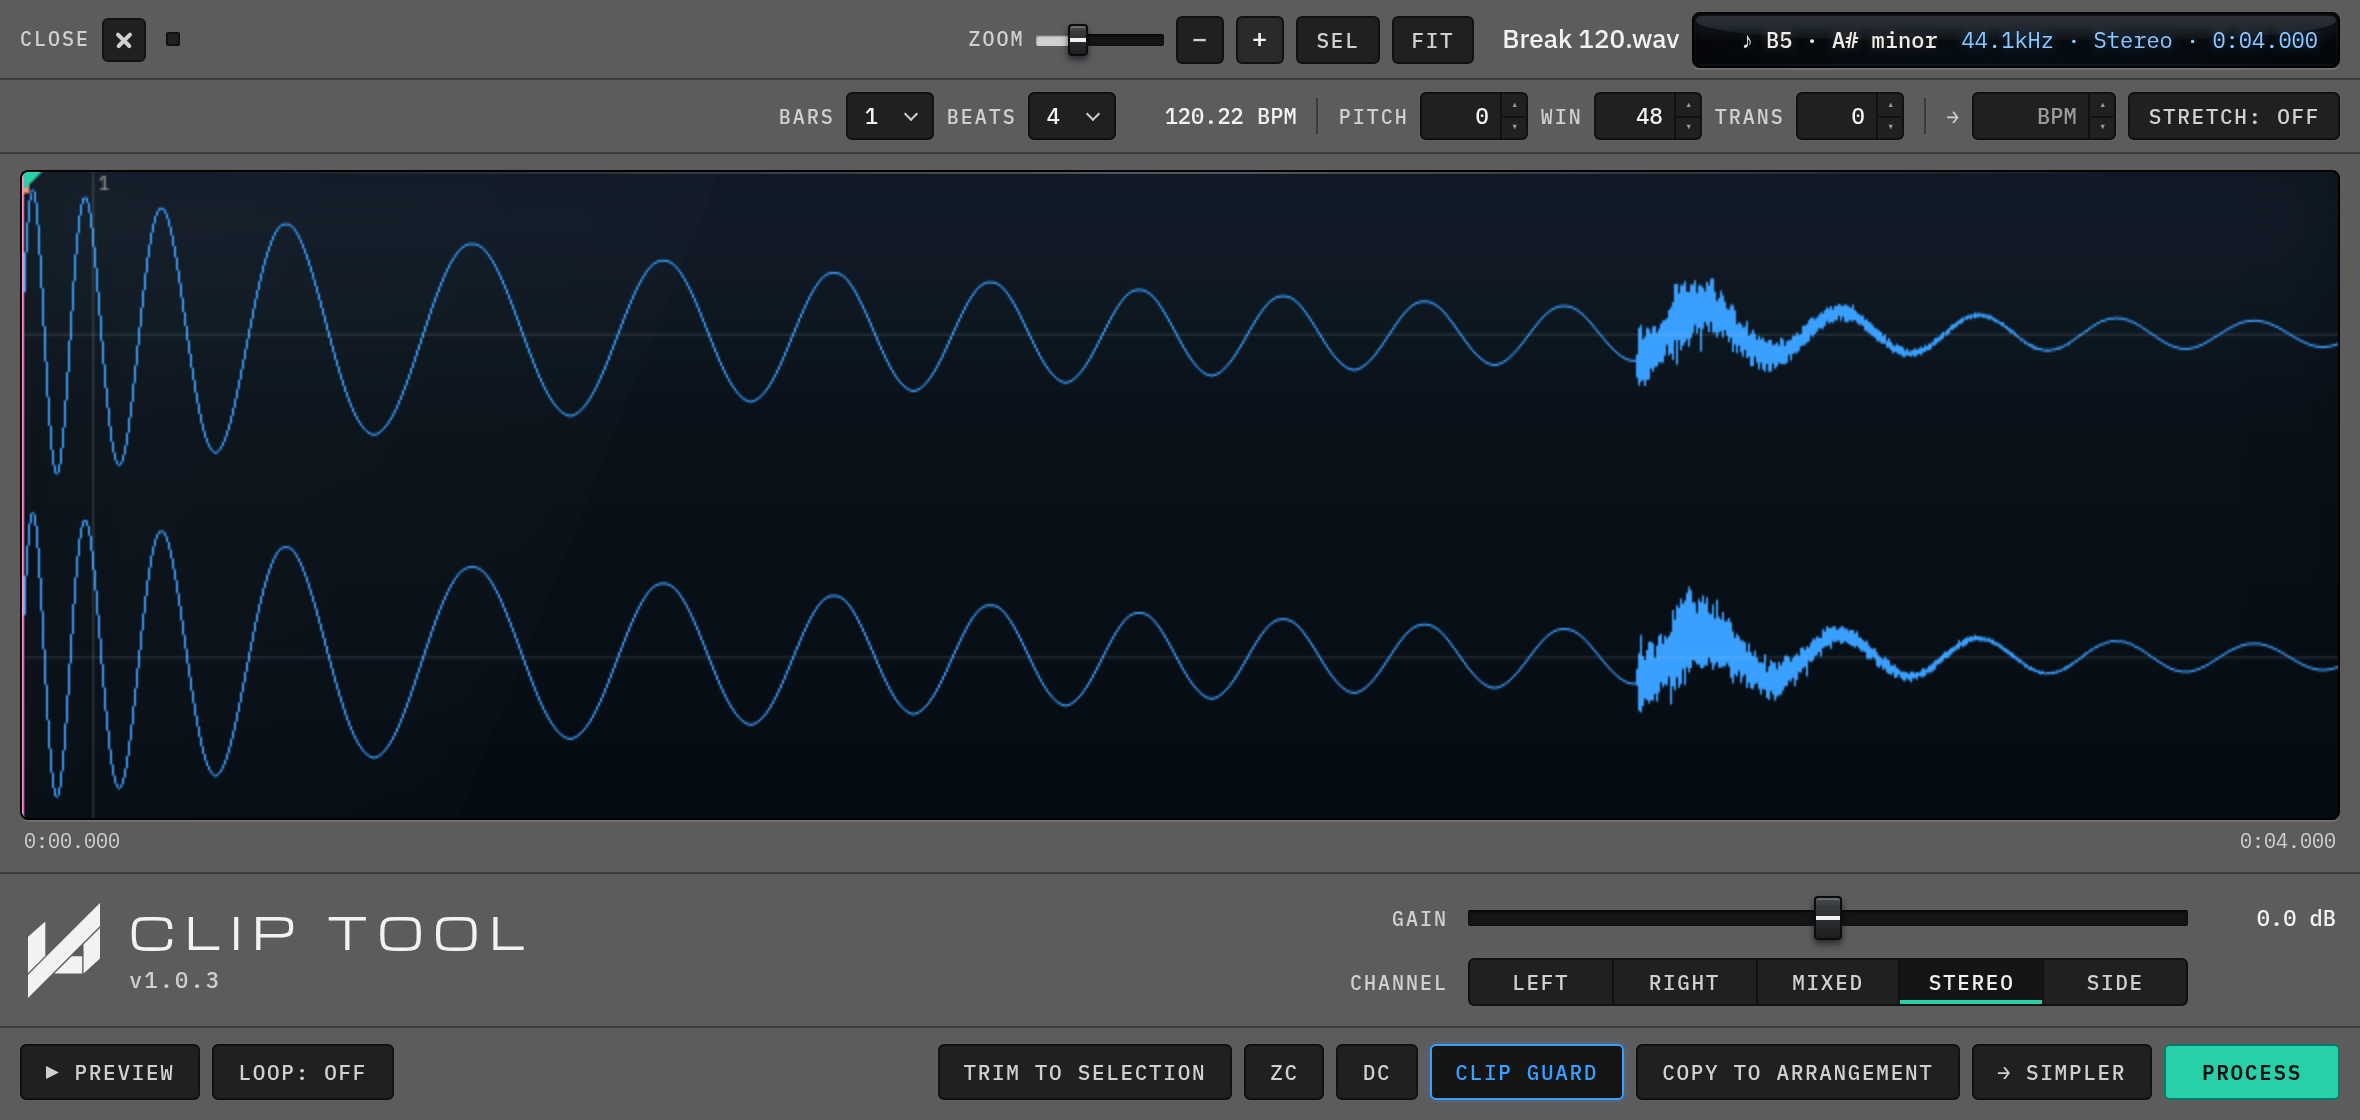
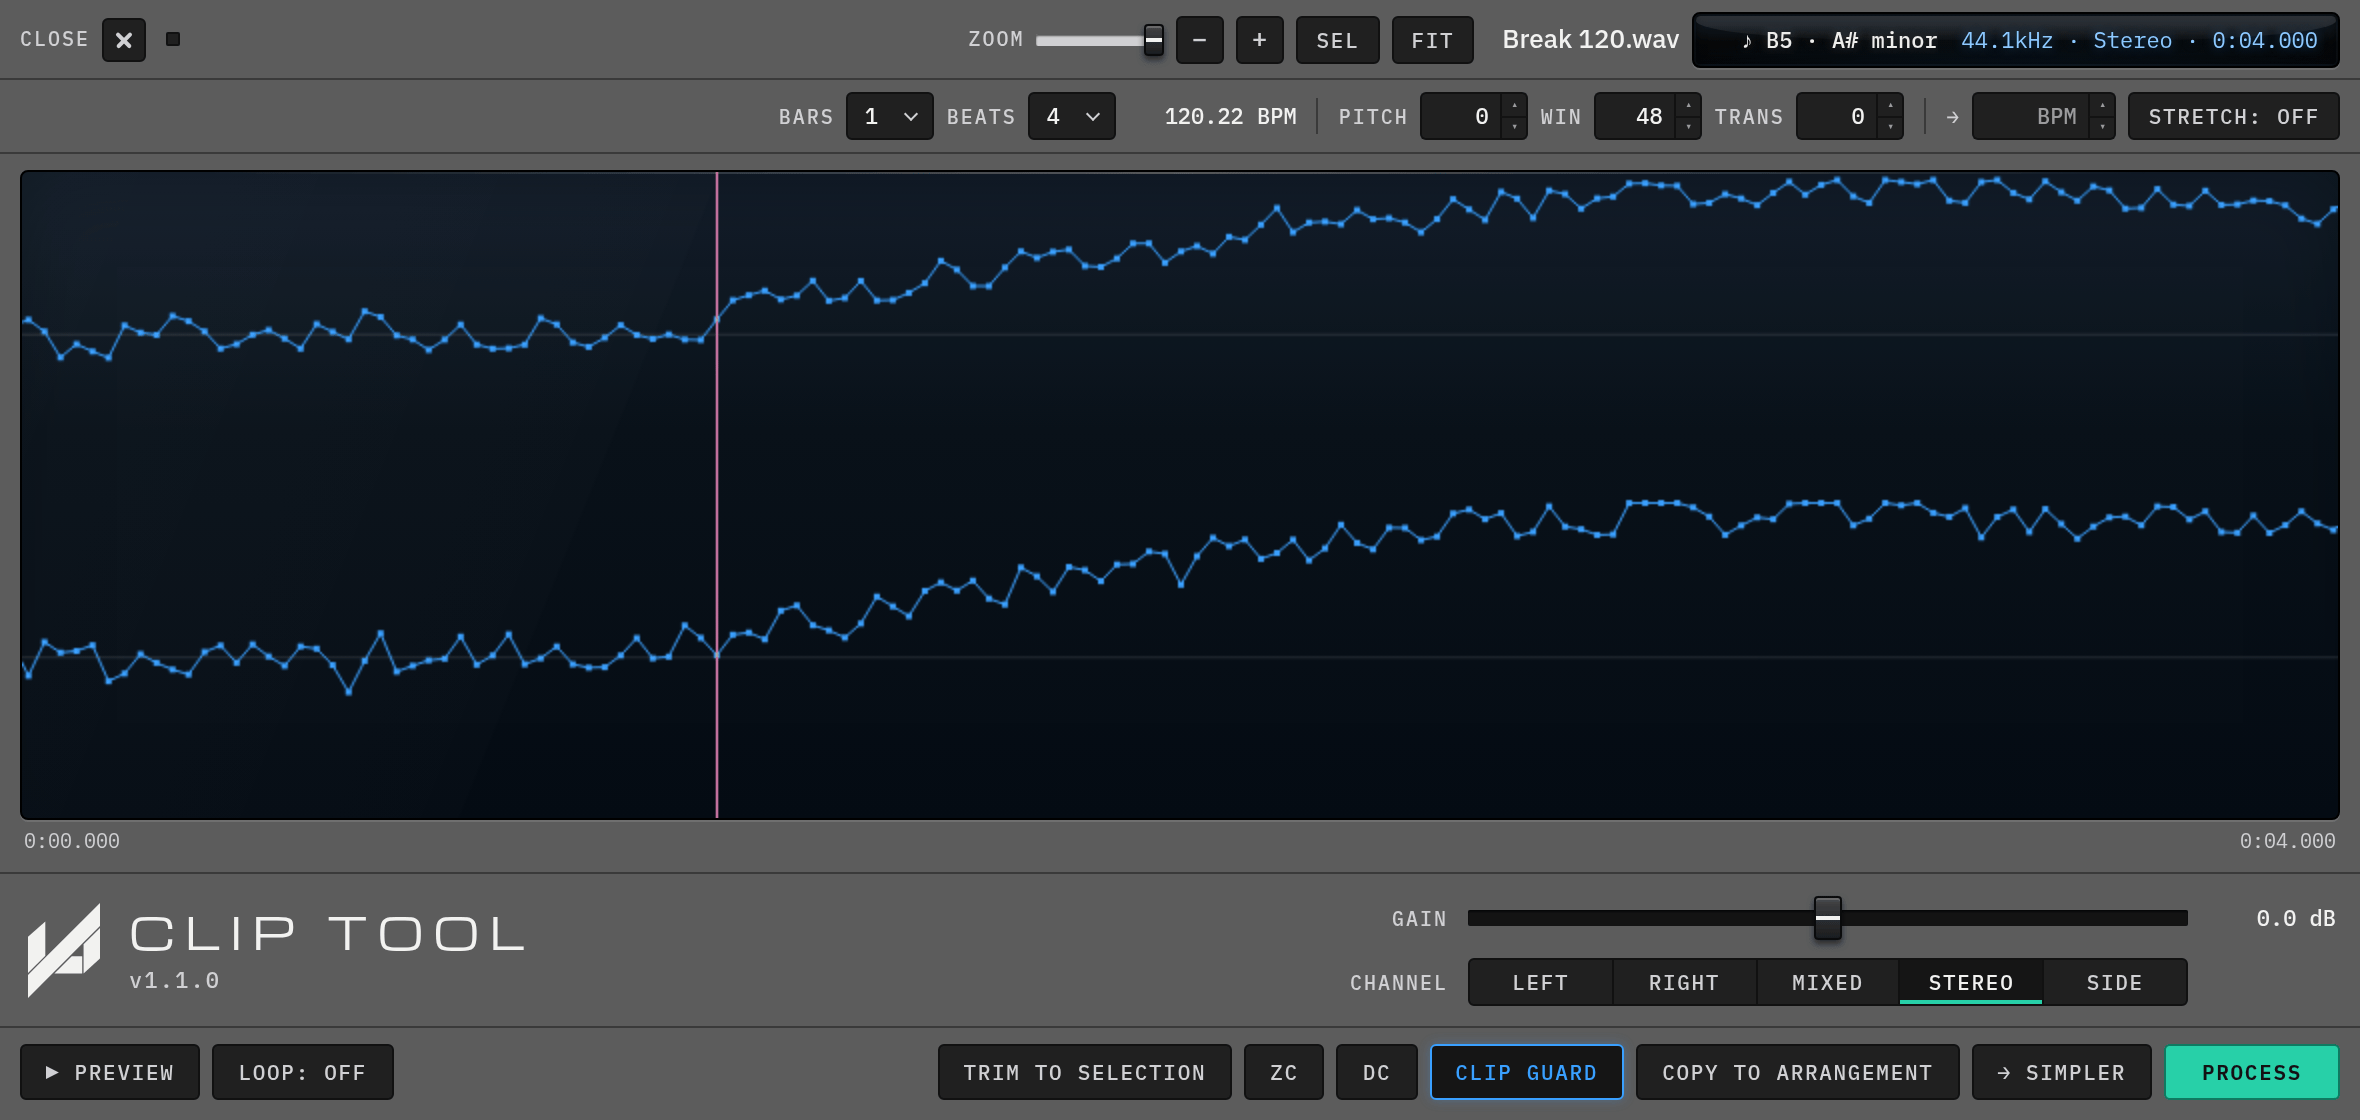
Retake the README screenshots for 1.1.0, with the zoom shot at sample level

diff --git a/README.md b/README.md
@@ -41,7 +41,7 @@ turning a rough chop into something playable without leaving Live.
 
 ## Features
 
-![Zoomed in to the waveform](docs/screenshots/waveform-zoom.png)
+![Zoomed all the way in: single samples drawn as dots where a kick starts](docs/screenshots/waveform-zoom.png)
 
 **Editing**
 
